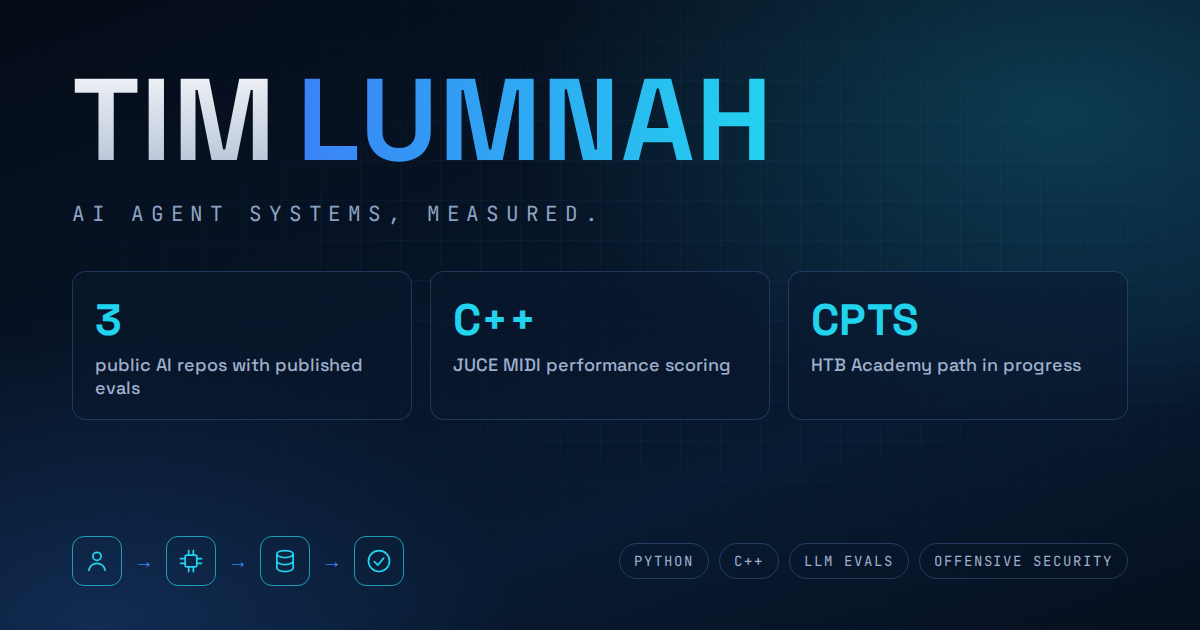
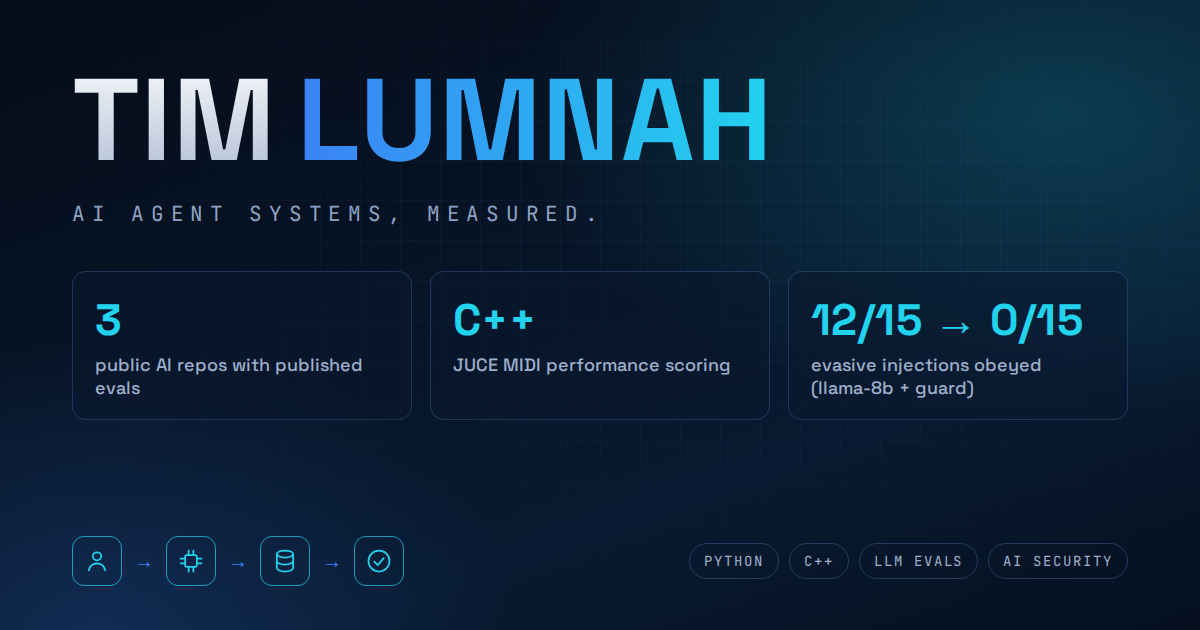
Bold the AI-projects line in Now; tag Otto Operator as closed source

diff --git a/index.html b/index.html
@@ -3,18 +3,18 @@
 <head>
   <meta charset="UTF-8">
   <meta name="viewport" content="width=device-width, initial-scale=1.0">
-  <title>Tim Lumnah: Builder &amp; Security Practitioner</title>
-  <meta name="description" content="Tim Lumnah: AI agent tooling, self-healing test automation, and C++/JUCE software, shipped in public on GitHub, plus work toward HTB Academy's CPTS. Projects, hands-on offensive security, and press.">
+  <title>Tim Lumnah: AI Automation &amp; Agent Developer</title>
+  <meta name="description" content="Tim Lumnah: AI agent tooling with published evals, self-healing test automation, and C++/JUCE software, shipped in public on GitHub. Projects and AI and offensive security work.">
   <meta name="theme-color" content="#050c18">
   <link rel="canonical" href="https://timlumnah.github.io/TimLumnahSite/">
-  <meta property="og:title" content="Tim Lumnah: Builder &amp; Security Practitioner">
-  <meta property="og:description" content="AI agent systems with guardrails and evals you can rerun, software shipped in public, and offensive security work.">
+  <meta property="og:title" content="Tim Lumnah: AI Automation &amp; Agent Developer">
+  <meta property="og:description" content="AI agent systems with guardrails and evals you can rerun, tested against prompt injection, and software shipped in public.">
   <meta property="og:type" content="website">
   <meta property="og:url" content="https://timlumnah.github.io/TimLumnahSite/">
   <meta property="og:image" content="https://timlumnah.github.io/TimLumnahSite/img/og-card.png">
   <meta property="og:image:width" content="1200">
   <meta property="og:image:height" content="630">
-  <meta property="og:image:alt" content="Tim Lumnah. AI agent systems, measured. Three public AI repos with published evals, a C++ JUCE MIDI scoring app, and an HTB Academy CPTS path in progress.">
+  <meta property="og:image:alt" content="Tim Lumnah. AI agent systems, measured. Three public AI repos with published evals, a C++ JUCE MIDI scoring app, and evasive prompt injections obeyed cut from 12 of 15 to 0 of 15 with a guard model.">
   <meta name="twitter:card" content="summary_large_image">
   <meta name="twitter:image" content="https://timlumnah.github.io/TimLumnahSite/img/og-card.png">
   <link rel="icon" type="image/svg+xml" href="./favicon.svg">
@@ -291,29 +291,9 @@
     }
     .status.progress { background: rgba(34, 211, 238, .12); color: var(--cyan); border: 1px solid rgba(34, 211, 238, .5); }
     .status.done { background: rgba(255, 255, 255, .06); color: var(--muted); border: 1px solid var(--line); }
+    a.dossier-item { text-decoration: none; color: inherit; transition: border-color .15s ease; }
+    a.dossier-item:hover { border-color: var(--cyan); }
     @media (max-width: 560px) { .dossier-item { grid-template-columns: 1fr; } }
-
-    /* ---------- Press (quieter) ---------- */
-    .clip-list { display: flex; flex-direction: column; }
-    .clip {
-      display: flex; align-items: baseline; justify-content: space-between; gap: 1rem;
-      padding: .95rem 0;
-      border-bottom: 1px solid var(--line-soft);
-      flex-wrap: wrap;
-    }
-    .clip a { text-decoration: none; }
-    .clip .clip-pub {
-      font-family: 'JetBrains Mono', monospace;
-      color: var(--muted-2); flex: 0 0 9.5rem; font-size: .74rem; letter-spacing: .04em; text-transform: uppercase;
-    }
-    .clip-title { font-size: 1.05rem; font-weight: 500; flex: 1 1 18rem; }
-    .clip-title:hover { color: var(--cyan); }
-    .clip-also {
-      font-family: 'JetBrains Mono', monospace;
-      font-size: .72rem; color: var(--muted-2); letter-spacing: .03em;
-    }
-    .clip-also:hover { color: var(--cyan); }
-    @media (max-width: 560px) { .clip .clip-pub { flex-basis: 100%; } }
 
     /* ---------- Contact / footer ---------- */
     .contact h2 { font-size: clamp(2.2rem, 6vw, 3.6rem); font-weight: 700; margin: 0 0 1.5rem; }
@@ -344,7 +324,6 @@
         <a href="#now">Now</a>
         <a href="#build">Build</a>
         <a href="#security">Security</a>
-        <a href="#before">Press</a>
         <a href="#contact">Contact</a>
       </nav>
     </div>
@@ -353,9 +332,9 @@
   <header class="hero">
     <div class="wrap">
       <div>
-        <p class="kicker">Software Builder · Security Practitioner</p>
+        <p class="kicker">AI Automation &amp; Agent Developer · Cybersecurity</p>
         <h1><span class="a">Tim</span><br><span class="b">Lumnah</span></h1>
-        <p class="sub">I build AI agent systems with guardrails and evals you can rerun, ship real software in the open, and work toward Hack&nbsp;The&nbsp;Box Academy's CPTS. Methodology and reporting included, not just the shell.</p>
+        <p class="sub">I build AI agent systems with guardrails and evals you can rerun, test them the way an attacker would, and ship real software in the open. Methodology and measured results, not just a demo.</p>
         <div class="hero-actions">
           <a class="btn btn-primary" href="#build">See the work</a>
           <a class="btn btn-ghost" href="https://github.com/timlumnah" target="_blank" rel="noopener">GitHub</a>
@@ -385,7 +364,7 @@
   <section id="now">
     <div class="wrap">
       <p class="eyebrow"><span class="num">01</span> Now</p>
-      <p class="pull">Five years owning IT and marketing systems for a real estate brokerage taught me I liked building the tools more than closing the deals. Now I'm working through Harvard Extension School coursework and a <b>Hack The Box Academy CPTS</b> path, while shipping software publicly. Three AI projects are live on GitHub with their evals in the READMEs: an agent-assisted outreach pipeline, a document retrieval tool that byte-checks every citation, and self-healing end-to-end tests, plus a C++ MIDI performance-scoring app.</p>
+      <p class="pull">Five years owning IT and marketing systems for a real estate brokerage taught me I liked building the tools more than closing the deals. Now I'm working through Harvard Extension School coursework while shipping software publicly. <b>Three AI projects are live on GitHub with their evals in the READMEs</b>: an agent-assisted outreach pipeline, a document retrieval tool that byte-checks every citation, and self-healing end-to-end tests, plus a C++ MIDI performance-scoring app. On the security side, I'm working toward Hack The Box Academy's CPTS.</p>
     </div>
   </section>
 
@@ -432,7 +411,7 @@
         <span class="idx">04</span>
         <div>
           <h3>Otto Operator</h3>
-          <div class="tags"><span class="tag">Python</span><span class="tag">FastAPI</span><span class="tag">React</span><span class="tag">AI Agents</span><span class="tag">Paused</span></div>
+          <div class="tags"><span class="tag">Python</span><span class="tag">FastAPI</span><span class="tag">React</span><span class="tag">AI Agents</span><span class="tag">Closed Source</span><span class="tag">Paused</span></div>
           <p>A real estate automation platform I built solo as founder and CTO: MLS ingestion, agent workflows, billing, and an AI agent layer with a custom tool-calling loop, database-backed memory, and schema-repair guardrails, wired into email and SMS intake.</p>
           <p class="metric">The three public repos above are runnable spinoffs of what it taught me. Paused after the brokerage it served merged into a larger firm.</p>
           <span class="more">View site</span>
@@ -457,10 +436,19 @@
     <div class="wrap">
       <p class="eyebrow"><span class="num">03</span> Security</p>
       <div class="section-head">
-        <h2 class="section-title">Offensive security, done properly</h2>
+        <h2 class="section-title">Security, offense and AI</h2>
       </div>
-      <p class="lede">I got into this through a single Kali Linux class and haven't stopped. Every engagement below follows real methodology and ends in a written report, because in actual pentest work, the report is the deliverable, not the shell.</p>
+      <p class="lede">I got into offensive security through a single Kali Linux class and haven't stopped, and I now test the AI systems I build the same way, which is the first card. The pentest work below follows real methodology and ends in a written report, because in actual pentest work, the report is the deliverable, not the shell.</p>
       <div class="dossier">
+        <a class="dossier-item" href="https://github.com/timlumnah/open_otto" target="_blank" rel="noopener">
+          <div>
+            <p class="org">Open Otto, public repo</p>
+            <h3>AI security: prompt-injection evals</h3>
+            <p>Planted and paraphrased prompt injections scored across four models, with a regex filter and a guard model each measured against them. Hardening cuts detectable injections to 0/25 obeyed; the guard takes evasive ones from 12/15 to 0/15 (llama-8b). The misses are published.</p>
+            <div class="tags"><span class="tag">Prompt Injection</span><span class="tag">LLM Evals</span><span class="tag">Guardrails</span></div>
+          </div>
+          <span class="status progress">Shipped</span>
+        </a>
         <div class="dossier-item">
           <div>
             <p class="org">Hack The Box Academy</p>
@@ -501,31 +489,9 @@
     </div>
   </section>
 
-  <section id="before" class="alt">
+  <section id="contact" class="contact alt">
     <div class="wrap">
-      <p class="eyebrow"><span class="num">04</span> Press</p>
-      <div class="section-head">
-        <h2 class="section-title" style="font-size: clamp(1.4rem, 3vw, 1.9rem);">In the news</h2>
-      </div>
-      <p class="lede" style="margin-bottom:1.8rem;">A handful of press mentions from earlier work.</p>
-      <div class="clip-list">
-        <div class="clip">
-          <span class="clip-pub">Realtor.com</span>
-          <a class="clip-title" href="https://www.realtor.com/advice/buy/reasons-pending-sales-fall-through-in-real-estate/" target="_blank" rel="noopener">5 Reasons Pending Sales Fall Through in Real Estate</a>
-          <a class="clip-also" href="https://massbuyeragents.org/massachusetts-real-estate-agents/2022/07/08/reasons-pending-sales-fall-through-in-real-estate-massachusetts-homebuyers-homeownership-2/" target="_blank" rel="noopener">also: MA Assn. of Buyer Agents →</a>
-        </div>
-        <div class="clip">
-          <span class="clip-pub">Yahoo Finance</span>
-          <a class="clip-title" href="https://finance.yahoo.com/news/gen-z-millennials-destined-live-150029553.html" target="_blank" rel="noopener">Are Gen Z and Millennials Destined To Live With Roommates Forever?</a>
-          <a class="clip-also" href="https://www.gobankingrates.com/money/financial-planning/are-gen-z-millennials-destined-to-live-with-roommates-forever/" target="_blank" rel="noopener">also: GO BankingRates →</a>
-        </div>
-      </div>
-    </div>
-  </section>
-
-  <section id="contact" class="contact">
-    <div class="wrap">
-      <p class="eyebrow"><span class="num">05</span> Contact</p>
+      <p class="eyebrow"><span class="num">04</span> Contact</p>
       <h2>Let's talk.</h2>
       <div class="contact-links">
         <a href="https://github.com/timlumnah" target="_blank" rel="noopener">GitHub</a>

diff --git a/README.md b/README.md
@@ -14,15 +14,16 @@ never actually applies. That's expected, not a bug.
 
 ## Structure
 
-One page, six sections:
+One page, five sections:
 
-- **Hero** — name, positioning line, three headline numbers, education/stack summary
+- **Hero** — name, "AI Automation & Agent Developer · Cybersecurity" kicker (mirrors the LinkedIn headline), positioning line, three headline numbers, education/stack summary
 - **Now** — short framing statement on where things stand currently
 - **Build** — Open Otto, Context Wrangler, Test Phoenix, Otto Operator,
   Midi Repinator
-- **Security** — HTB Academy CPTS, Harvard Extension ethical hacking coursework,
-  TryHackMe CTF work, CompTIA Security+
-- **Press** — press mentions from earlier real estate work
+- **Security** — AI security first (open_otto prompt-injection evals), then HTB Academy
+  CPTS, Harvard Extension ethical hacking coursework, TryHackMe CTF work, CompTIA
+  Security+. Kept in the nav but deliberately not in the hero headline: the job-search
+  traction is AI and automation, and the AI-security work is the bridge between the two
 - **Contact** — GitHub, LinkedIn, eBusiness card
 
 Build rows are ordered by current relevance, AI agent work first. Each project's
@@ -34,7 +35,6 @@ Images live in `img/`: `og-card.png` (1200x630 share card, referenced by an
 absolute `og:image` URL on timlumnah.github.io/TimLumnahSite, since timlumnah.com
 forwards there) and one 960x480 `.webp` thumbnail per Build row. Every number on
 the hero tiles, Build rows, and cards is copied from the matching repo README.
-Press shows two entries, each with its syndicated copy as an "also" link.
 
 ## Local preview
 
@@ -62,10 +62,12 @@ revisited:
   finished) when that changes.
 - Otto Operator is marked "Paused" in the Build section. Update if that
   changes.
-- Project links (GitHub repos, ottooperator.com, press articles) should be
+- Project links (GitHub repos, ottooperator.com) should be
   spot-checked occasionally since dead links have been pruned from here
   before.
 
 ## Deployment
 
 Pushes to `main` deploy automatically via GitHub Pages.
+
+A Press section (real-estate mentions from the brokerage years) was removed 2026-11-22: it was off-lane for AI and security readers. It is in git history if it is ever wanted back.
